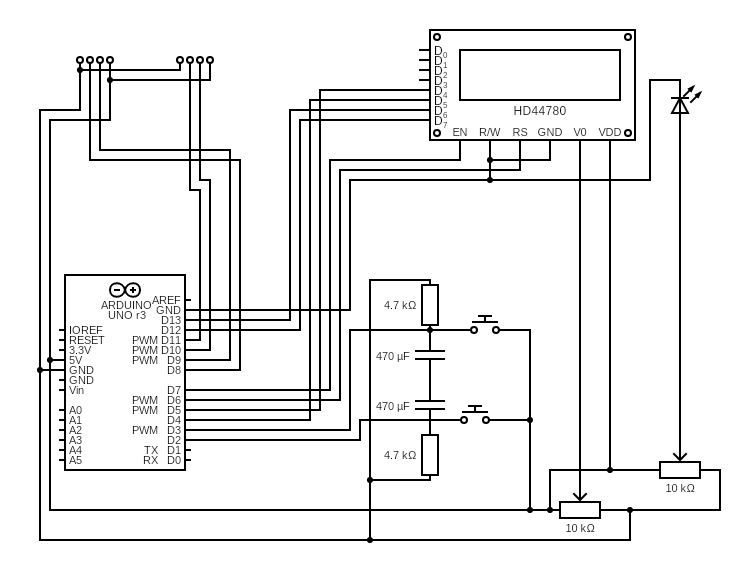
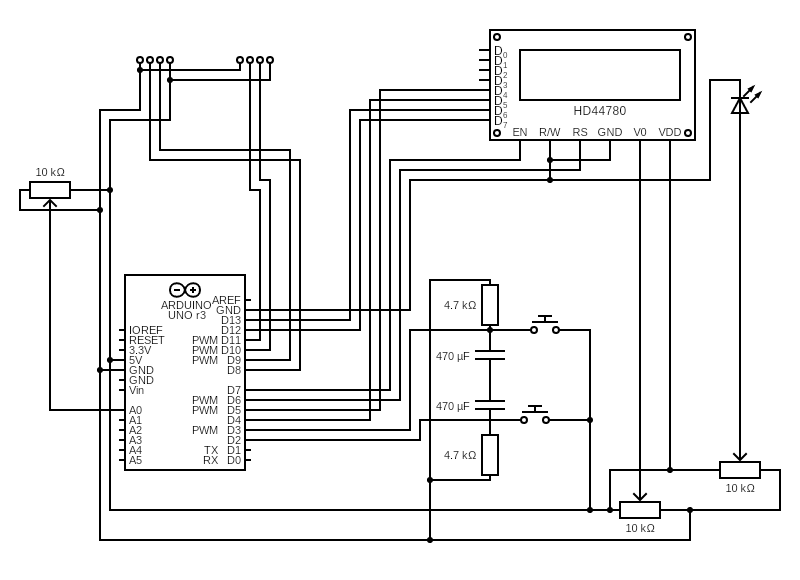
update circuit

diff --git a/src/main.cpp b/src/main.cpp
@@ -5,12 +5,18 @@
 #include <Wire.h>
 
 #define BAUTRATE 9600
+
+//gps
 #define GPS_NUMBER 2
 #define WAITFORSIGNALTIME 5000
+
+
+//display
 #define DISPLAY_MODIE 2
 #define MULTIMODETIME 2000
 #define MULTIDISPLAYS 4
 
+//Analog Pin
 #define ANALOGPIN A0
 
 //Debug level
@@ -21,6 +27,7 @@
 const int rs = 6, en = 7, d4 = 5, d5 = 4, d6 = 13, d7 = 12;
 LiquidCrystal lcd(rs, en, d4, d5, d6, d7);
 
+//software and gps instances
 //rx, tx
 SoftwareSerial port1(10, 11);
 TinyGPSPlus gps1;
@@ -28,30 +35,34 @@ TinyGPSPlus gps1;
 SoftwareSerial port2(8, 9);
 TinyGPSPlus gps2;
 
+//struct to manage gps module
 struct GPSStruct {
     SoftwareSerial *soft;
     TinyGPSPlus encode;
-    unsigned long lastTimeSinceData;
-    bool missing;
-    bool lcdOnMissing;
+    unsigned long lastTimeSinceData;  //used to check if a gps module is connected
+    bool missing;                     //stores  if missing
+    bool lcdOnMissing;                //stores if missing is displayed (stor this information to prefent refres scylus of the lcd)
 };
 GPSStruct gpsstruct[GPS_NUMBER];
 
 // Variables for gpsseclection
 int gpsselected = 0;
+
+//display variables
 int displayMode = 0;
 int multiMode = 0;
 unsigned long modeTime;
-
 int smothAnalog = 1024;
 
 //method declaration
 void modeSelection();
 void gpsSeclection();
 
+//process methods
 void readSoftSerail();
 void updateDisplay();
 
+//display methods
 void display_oneline(TinyGPSPlus gps, short row);
 void display_multi(TinyGPSPlus gps, short row);
 void display_multi_1(TinyGPSPlus gps, short row);
@@ -70,7 +81,6 @@ byte underlinedTwo[] = {
   0x1F,
   0x1F
 };
-
 byte underlinedOne[] = {
   0x04,
   0x0C,
@@ -103,7 +113,6 @@ void setup() {
   // LCD
   lcd.begin(16, 2);
   lcd.clear();
-
   lcd.createChar(0,underlinedOne);
   lcd.createChar(1,underlinedTwo);
 
@@ -125,12 +134,13 @@ void setup() {
   pinMode(3, INPUT);
   attachInterrupt(digitalPinToInterrupt(3), gpsSeclection, RISING);
 
+  //set mode timer
   modeTime = millis();
 }
 
 //### Loop #######################################################################
 void loop() {
-  //loop is splitted into two parts: Read Data and display
+  //loop is splitted into two parts: Read Data and update display
   readSoftSerail();
   updateDisplay();
 }
@@ -139,14 +149,17 @@ void loop() {
  * For both buttons
 */
 void modeSelection(){
+  //change display mode
   displayMode = (displayMode+1) % DISPLAY_MODIE;
   multiMode = 0;
 
+  //remove lcdOnMissing so lcd could be updated
   gpsstruct[0].lcdOnMissing = false;
   gpsstruct[1].lcdOnMissing = false;
 }
 
 void gpsSeclection(){
+  //change selected gps module
   gpsselected = (gpsselected+1) % GPS_NUMBER;
 }
 
@@ -155,8 +168,9 @@ void gpsSeclection(){
 */
 void readSoftSerail(){
   gpsstruct[gpsselected].soft->listen();
+
   if(gpsstruct[gpsselected].soft->available() > 0){
-    //update time
+    //update last update time
     gpsstruct[gpsselected].missing = false;
     gpsstruct[gpsselected].lastTimeSinceData = millis();
 
@@ -165,6 +179,7 @@ void readSoftSerail(){
       Serial.println(":");
     #endif
 
+    //read data
     while (gpsstruct[gpsselected].soft->available() > 0) {
       char inByte = gpsstruct[gpsselected].soft->read();
       gpsstruct[gpsselected].encode.encode(inByte);
@@ -179,13 +194,13 @@ void readSoftSerail(){
       Serial.println(gpsstruct[gpsselected].encode.charsProcessed());
     #endif
 
-    //check if satellites is value
+    //check if satellites is valid
     if(gpsstruct[gpsselected].encode.satellites.isValid()){
       #if DEBUG > 2
         Serial.println("  satellites valid");
       #endif
 
-      //change Module if valid
+      //change Module if valid in one_line mode
       if(displayMode == 0){
         gpsSeclection();
       }
@@ -200,8 +215,8 @@ void readSoftSerail(){
       gpsstruct[gpsselected].missing = true;
       gpsstruct[gpsselected].lastTimeSinceData = millis();
 
+      //restart software serial
       gpsstruct[gpsselected].soft->begin(BAUTRATE);
-
 
       #if DEBUG > 2
         Serial.print(gpsstruct[gpsselected].name);
@@ -209,6 +224,7 @@ void readSoftSerail(){
         Serial.println("  missing");
       #endif
 
+      //change gpsModule in one_line mode
       if(displayMode == 0){
         gpsSeclection();
       }
@@ -222,14 +238,18 @@ void readSoftSerail(){
 void updateDisplay(){
   switch(displayMode){
     case 0:
+      //oneline mode
       for (short i = 0; i < GPS_NUMBER; i++){
         //check if update is needed
         if(!gpsstruct[i].missing){
           gpsstruct[i].lcdOnMissing = false;
+
+          //cehck if update is needed
           if(gpsstruct[i].encode.location.isUpdated() || gpsstruct[i].encode.satellites.isUpdated()){
             display_oneline(gpsstruct[i].encode, i);
           }
         }else{
+          //no module is connected
           if(!gpsstruct[i].lcdOnMissing){
             gpsstruct[i].lcdOnMissing = true;
             lcd.setCursor(0,i);
@@ -241,10 +261,11 @@ void updateDisplay(){
       break;
 
     case 1:
+      //multiline mode
       if(!gpsstruct[gpsselected].missing){
         display_multi(gpsstruct[gpsselected].encode, gpsselected);
       }else{
-        //first line
+        //no module is connected
         lcd.setCursor(0, 0);
         lcd.print(gpsselected+1);
         lcd.print(" missing       ");
@@ -256,7 +277,7 @@ void updateDisplay(){
   }
 }
 
-//diesplay gps per line
+//display gps per line
 void display_oneline(TinyGPSPlus gps, short row){
   //name
   lcd.setCursor(0, row);
@@ -288,8 +309,8 @@ void display_oneline(TinyGPSPlus gps, short row){
 void display_multi(TinyGPSPlus gps, short row){
   int mode = multiMode;
 
+  //check analog value and dislay corresponding display
   smothAnalog = (smothAnalog*0.8)+(analogRead(ANALOGPIN)*0.2);
-
   if(smothAnalog>900){
     mode = multiMode;
   }else if(smothAnalog>830){
@@ -304,6 +325,7 @@ void display_multi(TinyGPSPlus gps, short row){
     mode = 3;
   }
 
+  //choosing display
   switch(mode){
     case 0:
       display_multi_1(gps, row+1);
@@ -319,6 +341,7 @@ void display_multi(TinyGPSPlus gps, short row){
       break;
   }
 
+  //change display after MULTIMODETIME
   if(millis()-modeTime >MULTIMODETIME){
     modeTime = millis();
     multiMode = (multiMode+1) % MULTIDISPLAYS;
@@ -352,6 +375,7 @@ void display_multi_2(TinyGPSPlus gps, short name){
   lcd.setCursor(0, 0);
   lcd.print(name);
 
+  //date
   lcd.print("Date ");
   if(gps.date.day() < 10){
     lcd.print(" ");
@@ -366,14 +390,24 @@ void display_multi_2(TinyGPSPlus gps, short name){
   lcd.print(gps.date.year());
   lcd.print("        ");
 
+  //time
   lcd.setCursor(0, 1);
   lcd.print(" Time ");
+  if(gps.time.hour() < 10){
+    lcd.print(" ");
+  }
   lcd.print(gps.time.hour());
   lcd.print(":");
+  if(gps.time.minute() < 10){
+    lcd.print(" ");
+  }
   lcd.print(gps.time.minute());
   lcd.print(":");
+  if(gps.time.second() < 10){
+    lcd.print(" ");
+  }
   lcd.print(gps.time.second());
-  lcd.print("       ");
+  lcd.print("  ");
 
 }
 
@@ -382,19 +416,32 @@ void display_multi_3(TinyGPSPlus gps, short name){
   lcd.setCursor(0, 0);
   lcd.print(name);
 
+  //sattelites
   lcd.print("SA ");
   int sat = gps.satellites.value();
   lcd.print(sat);
   if(sat < 10){
     lcd.print(" ");
   }
-  lcd.print(" COR ");
-  lcd.print(gps.course.deg(), 3);
 
+  //course degree
+  lcd.print(" COR ");
+  if(gps.course.deg() < 10){
+    lcd.print(" ");
+  }
+  lcd.print(gps.course.deg(), 2);
+
+  //speed
   lcd.setCursor(0, 1);
   lcd.print(" kmh ");
+  if(gps.speed.kmph() < 100){
+    lcd.print(" ");
+  }
+  if(gps.speed.kmph() < 10){
+    lcd.print(" ");
+  }
   lcd.print(gps.speed.kmph(),2);
-  lcd.print("       ");
+  lcd.print("     ");
 }
 
 void display_multi_4(TinyGPSPlus gps, short name){
@@ -402,12 +449,29 @@ void display_multi_4(TinyGPSPlus gps, short name){
   lcd.setCursor(0, 0);
   lcd.print(name);
 
-  lcd.print("Alt  ");
-  lcd.print(gps.altitude.meters(), 4);
-  lcd.print("          ");
+  //altitute
+  lcd.print("Alt ");
+  if(gps.altitude.meters() < 1000){
+    lcd.print(" ");
+  }
+  if(gps.altitude.meters() < 100){
+    lcd.print(" ");
+  }
+  if(gps.altitude.meters() < 10){
+    lcd.print(" ");
+  }
+  lcd.print(gps.altitude.meters(), 1);
+  lcd.print("     ");
 
+  //hdop
   lcd.setCursor(0,1);
   lcd.print(" Hdop ");
+  if(gps.hdop.value() < 100){
+    lcd.print(" ");
+  }
+  if(gps.hdop.value() < 10){
+    lcd.print(" ");
+  }
   lcd.print(gps.hdop.value());
-  lcd.print("          ");
+  lcd.print("       ");
 }

diff --git a/README.md b/README.md
@@ -6,6 +6,7 @@ There are two display modes. One displays both Modules but only Longtitute and l
 The LCD is connected to Pins rs = 6, en = 7, d4 = 5, d5 = 4, d6 = 13, d7 = 12;
 GPS1 is connected to rx = 10, tx = 11;
 GPS2 is connected to rx = 8, tx = 9;
+Potentionmeter for mode selection is connected to A0
 
 ![Circuit image](https://raw.githubusercontent.com/SiggiSigmann/GPS_Fixer/main/img/circuit.png)
 Made with https://www.circuit-diagram.org
